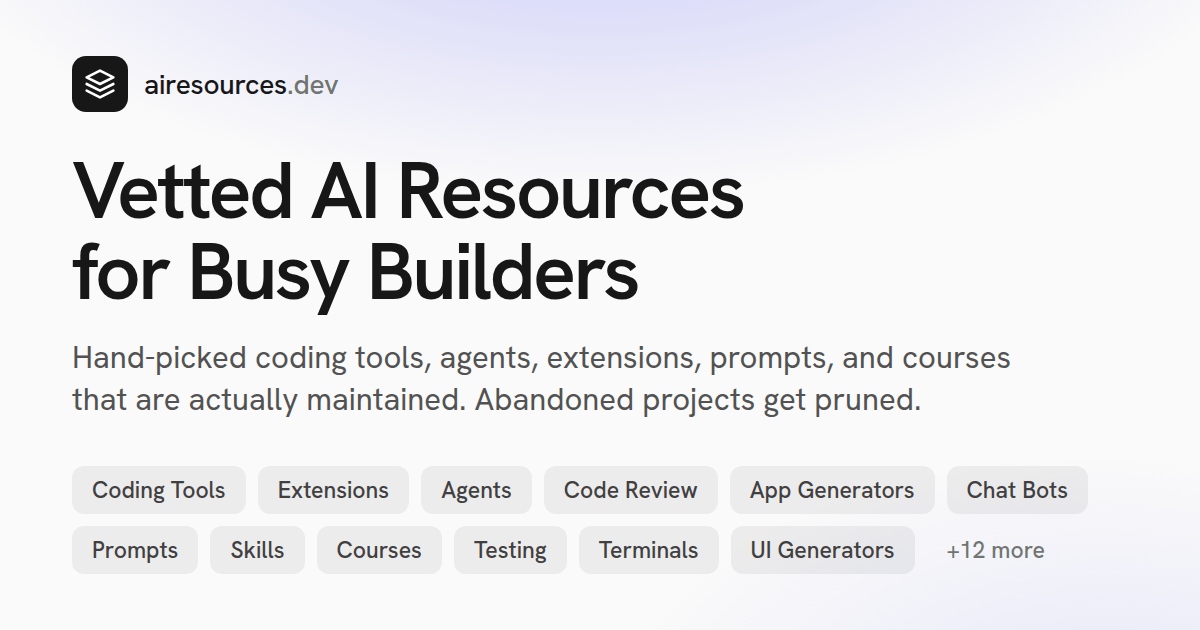
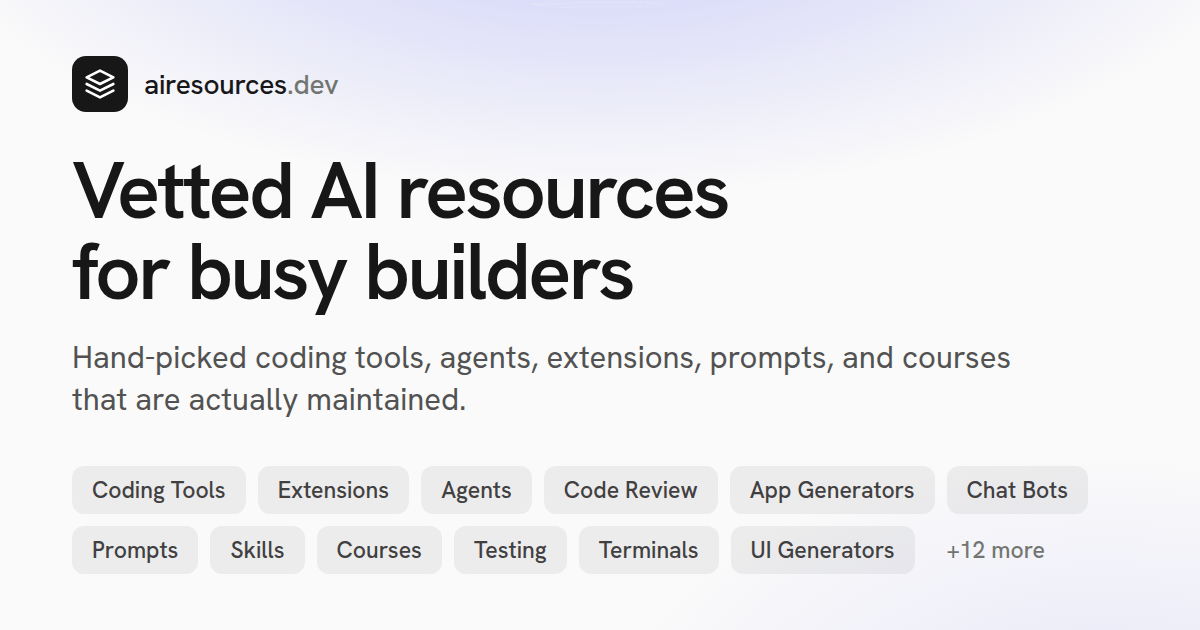
copy: sentence-case the headline and trim the description

Changed region(s): [[0.1542, 0.2413, 0.6167, 0.4825], [0.4008, 0.6032, 0.7708, 0.6635]]

diff --git a/scripts/og-image.html b/scripts/og-image.html
@@ -126,8 +126,8 @@
     </div>
 
     <div>
-      <h1>Vetted AI Resources<br />for Busy Builders</h1>
-      <p class="tagline">Hand-picked coding tools, agents, extensions, prompts, and courses that are actually maintained. Abandoned projects get pruned.</p>
+      <h1>Vetted AI resources<br />for busy builders</h1>
+      <p class="tagline">Hand-picked coding tools, agents, extensions, prompts, and courses that are actually maintained.</p>
     </div>
 
     <div class="chips">
